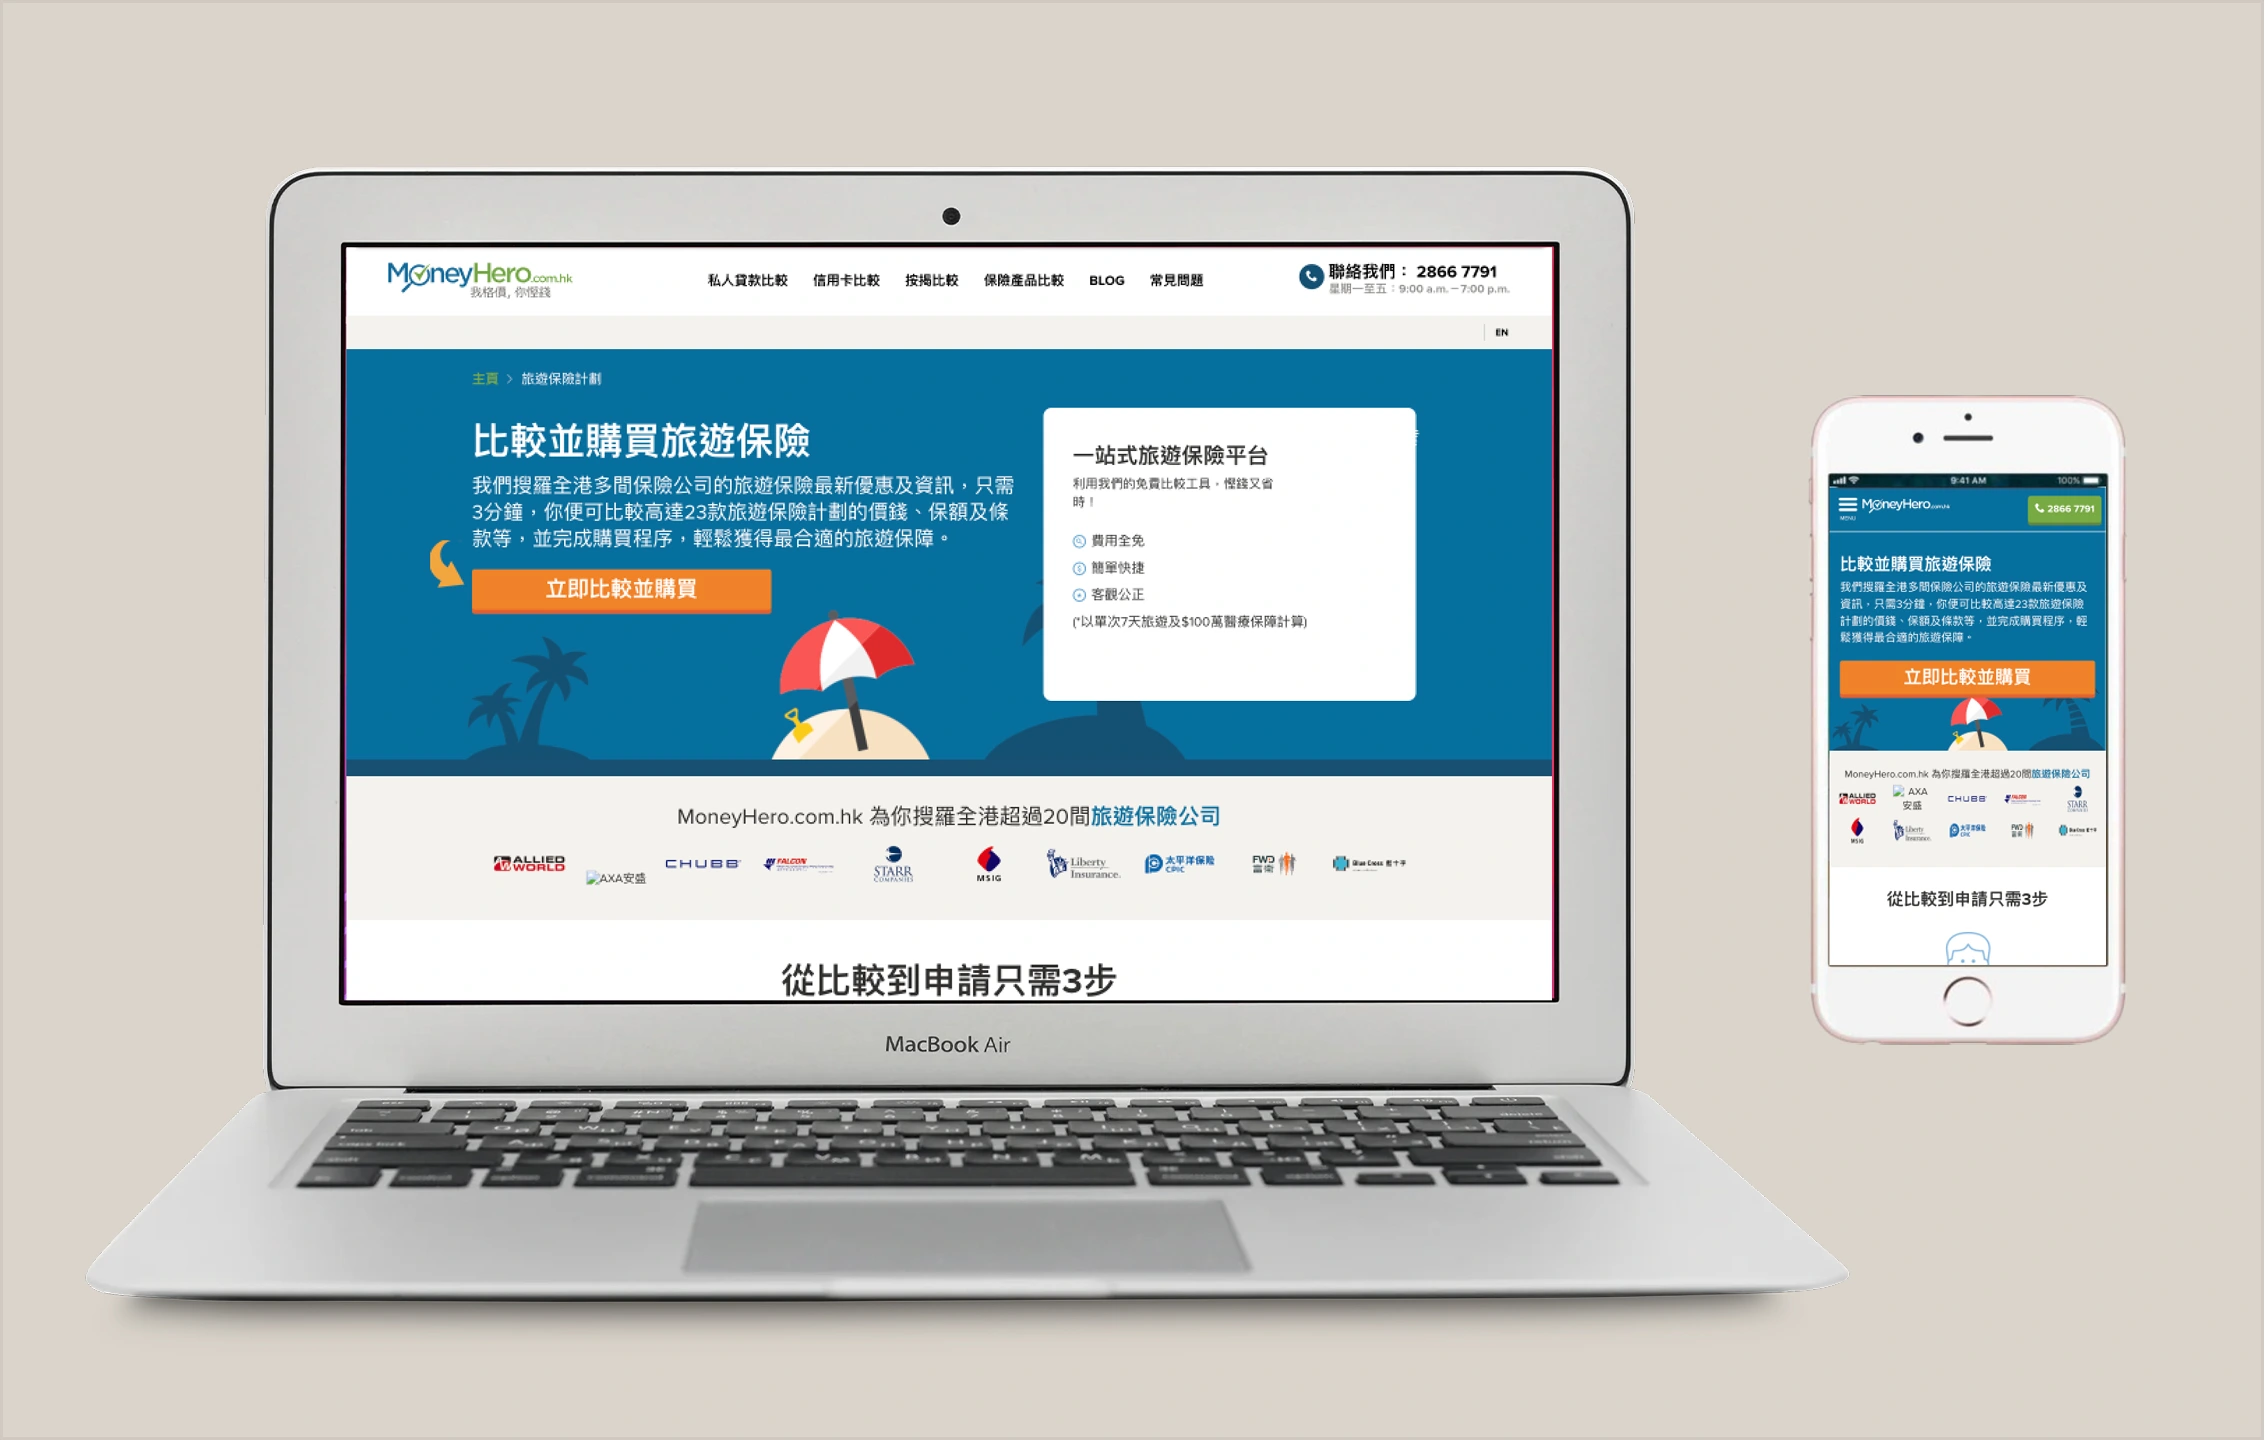
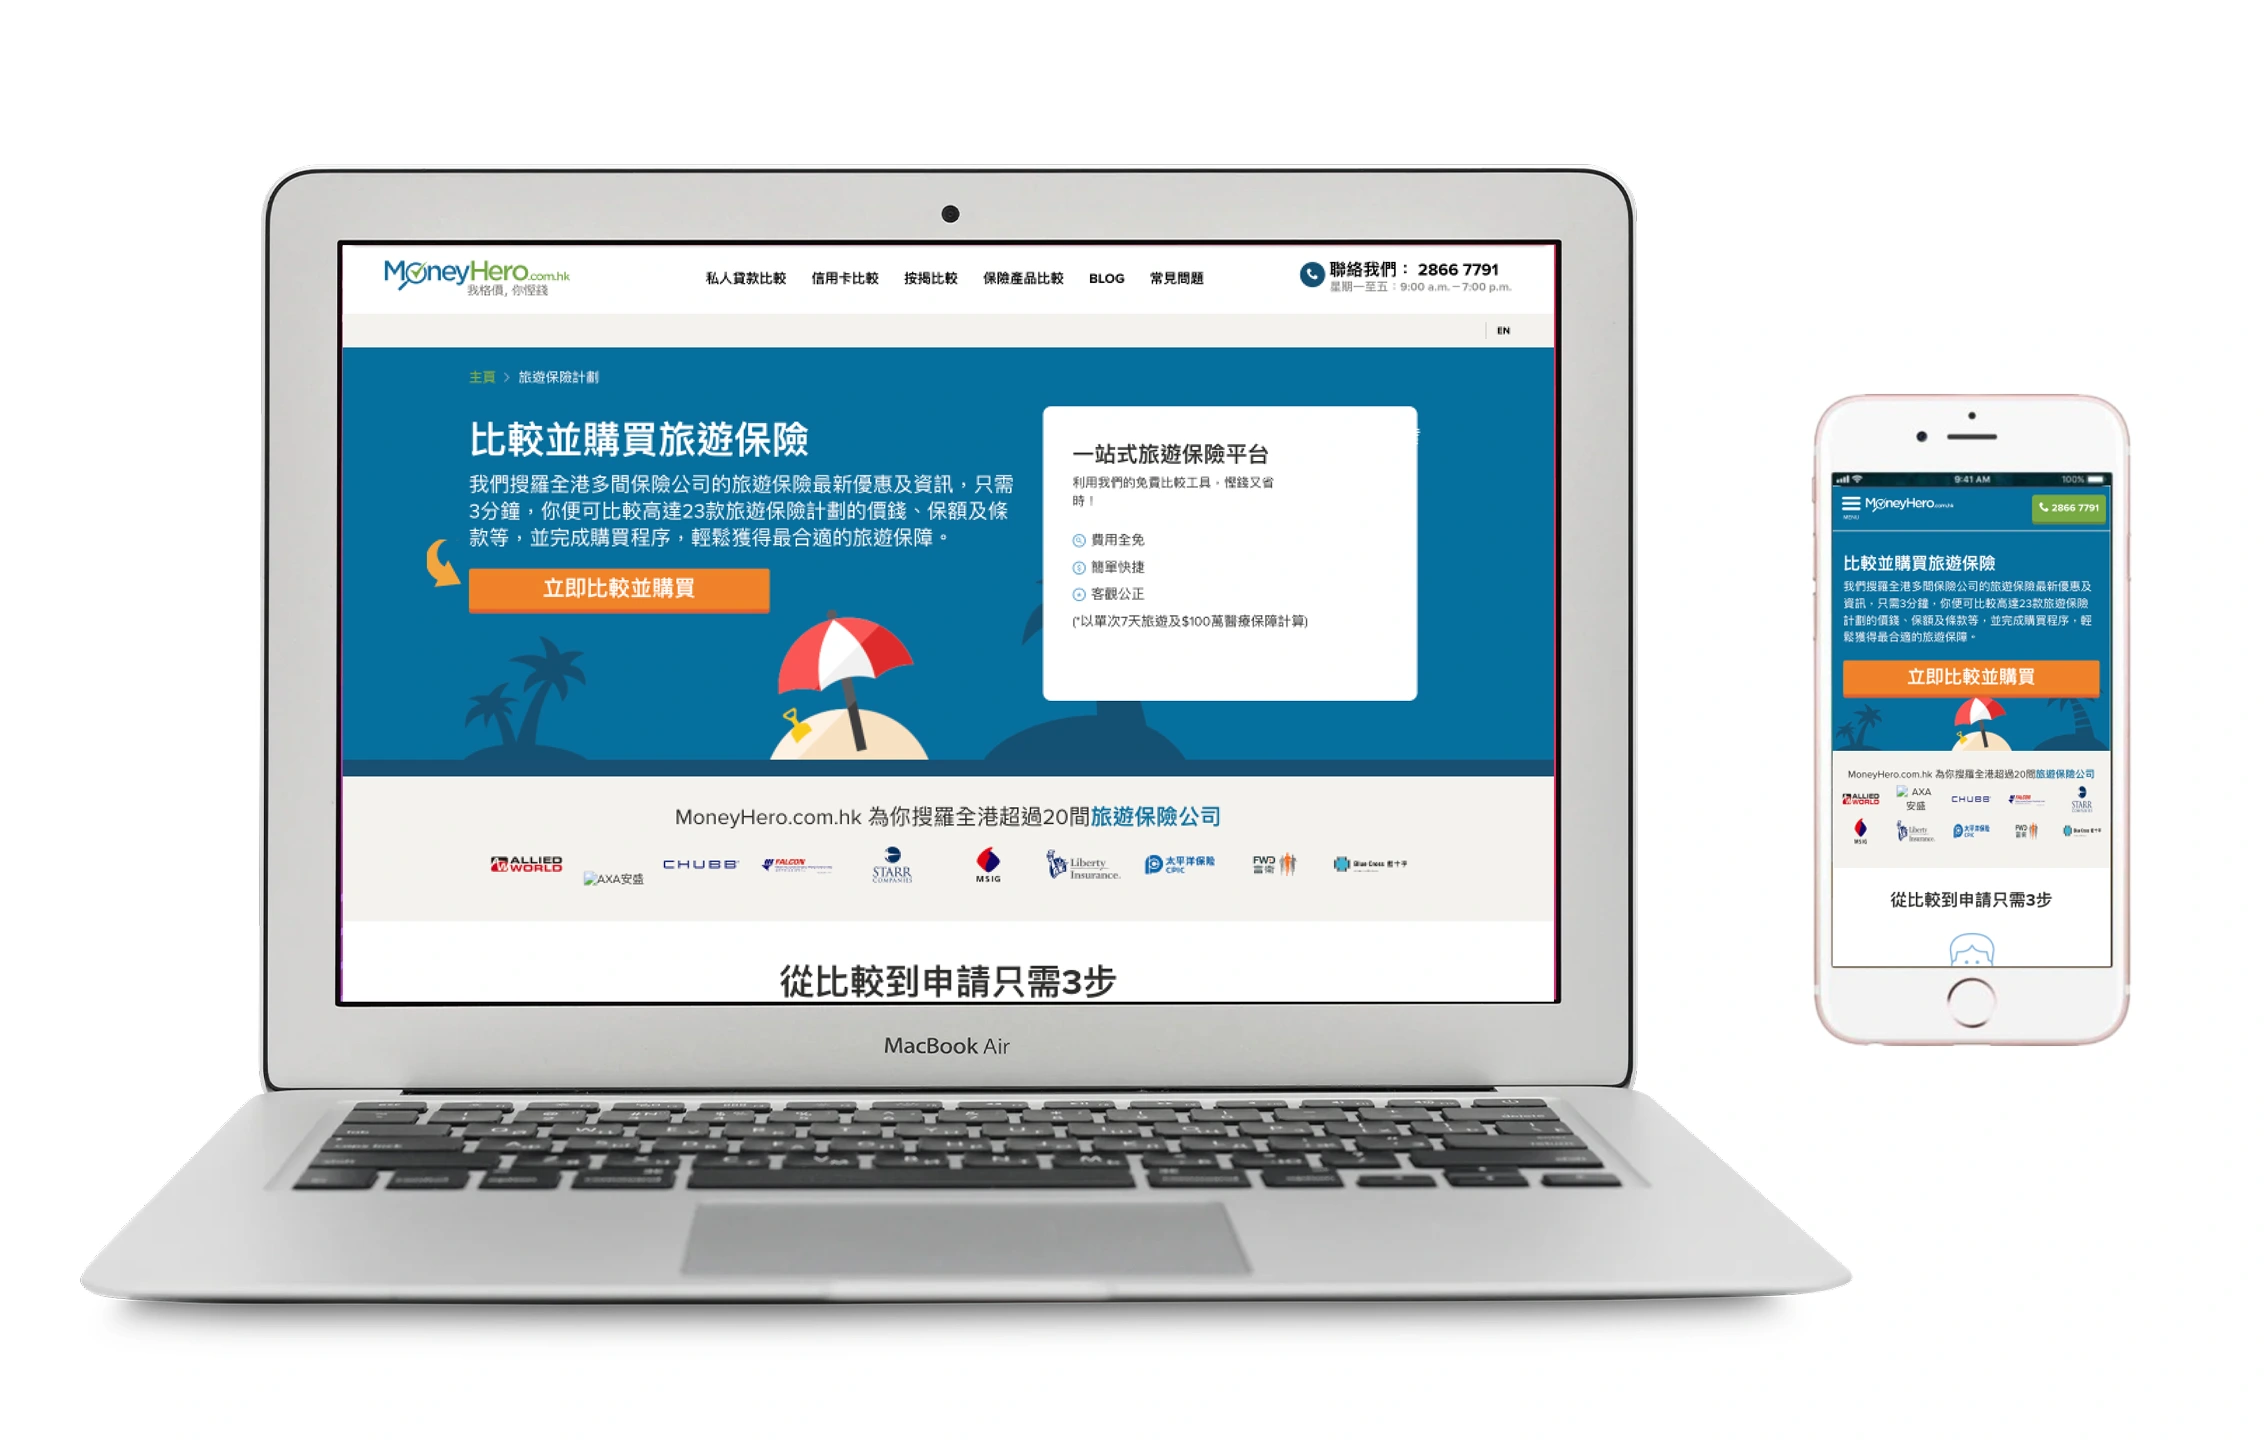
color

diff --git a/project_7/index.html b/project_7/index.html
@@ -520,7 +520,7 @@
 
                 <!-- Problem Image Container (Standardized Static Layout) -->
                 <div
-                    class="w-full max-w-[836px] mx-auto bg-[#DAD4CB] rounded-[24px] overflow-hidden shadow-sm border border-[#D8D4CC]/30 h-[280px] md:h-[480px] relative flex items-center justify-center mb-10">
+                    class="w-full max-w-[836px] mx-auto bg-[#FFFFFF] rounded-[24px] overflow-hidden shadow-sm border border-[#D8D4CC]/30 h-[280px] md:h-[480px] relative flex items-center justify-center mb-10">
                     <img src="image/Container-opt.webp" alt="Problem — Travel Insurance Funnel Abandonment"
                         class="w-full h-full object-contain mix-blend-multiply p-4" onerror="this.style.display='none'">
                     <button